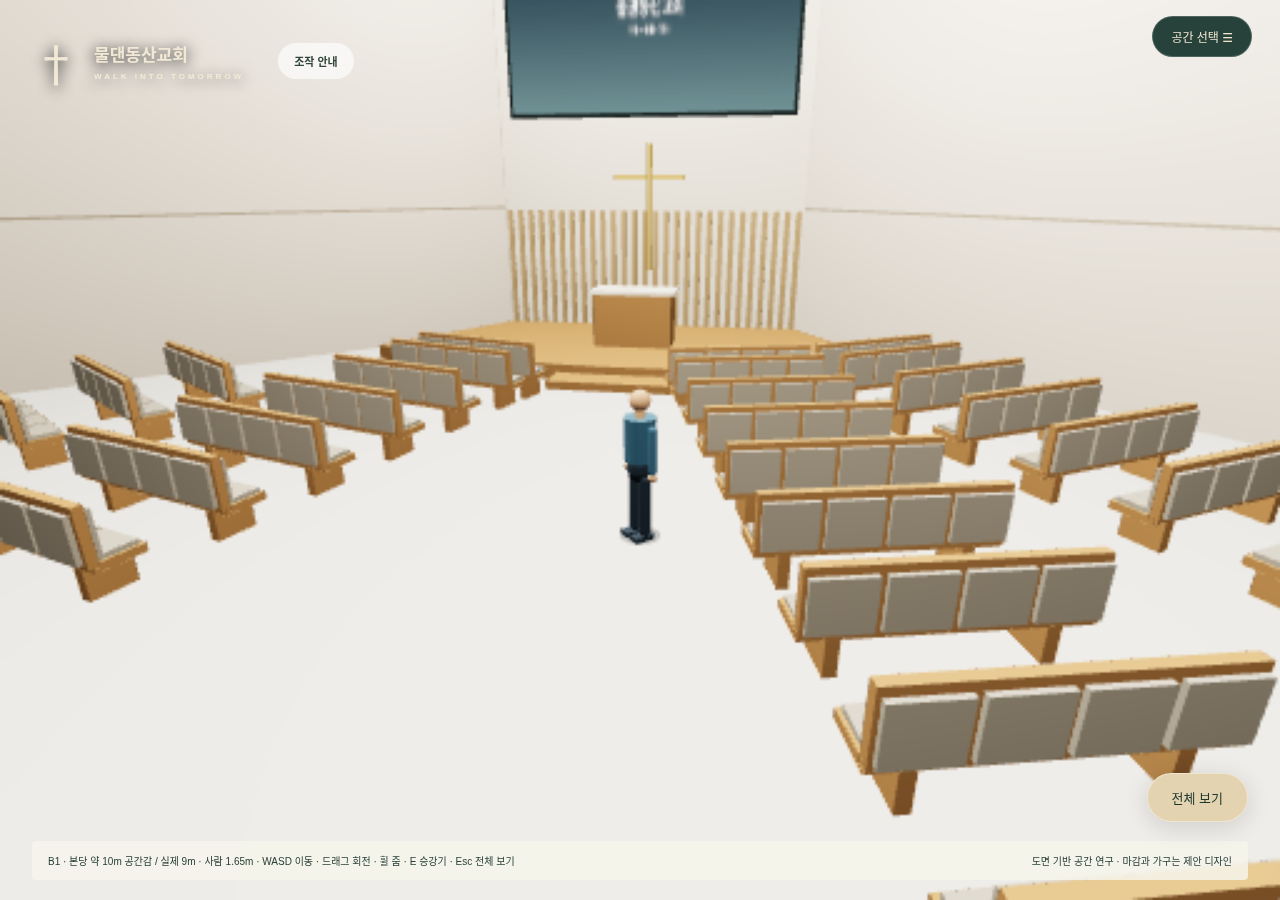
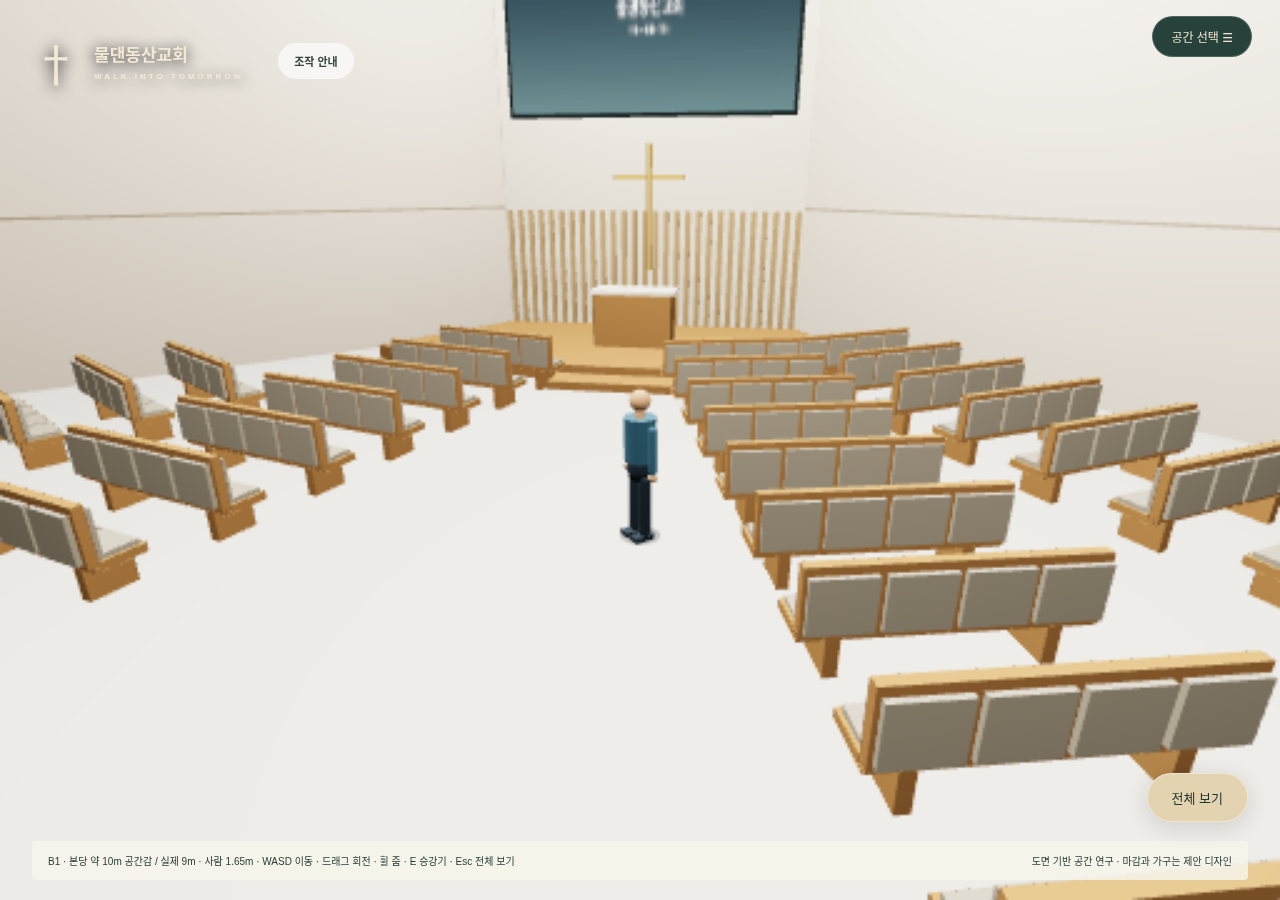
Restore front pew row spacing and open fourth floor room guard passages

Changed region(s): [[0.5, 0.3422, 0.75, 0.4356], [0.3125, 0.3422, 0.4375, 0.4667]]

diff --git a/src/building-world.js b/src/building-world.js
@@ -47,6 +47,14 @@ export class BuildingWorld {
     this.sanctuaryStairsRemoved=removed;this.repairs.push('Removed '+removed+' B1 stair and guard meshes; sanctuary circulation uses elevator');
   }
   fixStructure(){
+    // The roof guard crosses the three real 4F doorways. Keep the guard,
+    // but leave clear openings aligned with the existing door jambs.
+    for(const guardName of ['RAIL_Glass_RoofGuard','RAIL_Top_RoofGuard']){
+    const guard=this.original.get(guardName);
+    if(guard){const b=new T.Box3().setFromObject(guard);guard.removeFromParent();
+      for(const [i,a,c]of [[0,b.min.x,-9.5],[1,-8.5,.75],[2,1.75,9.6],[3,10.6,b.max.x]])this.box(guardName+'_segment_'+i,(a+c)/2,(b.min.y+b.max.y)/2,(b.min.z+b.max.z)/2,c-a,b.max.y-b.min.y,b.max.z-b.min.z,guard.material);
+    }
+    }
     // Restore the approved roof transform: the supplied environment export rotated
     // this horizontal slab into a vertical panel extending down into the sanctuary.
     const roof=this.original.get('ROOF_Setback');
@@ -128,7 +136,8 @@ export class BuildingWorld {
     this.sanctuary.screenWidth=6.2;
     const fabric=new T.MeshStandardMaterial({color:0xaaa394,roughness:.95});
     for(const [n,o]of this.original){if(/^B1_Pew_\d+_(Seat|Back)$/.test(n))o.material=fabric;
-      if(/^B1_Pew_0[012]_/.test(n)){const dx=o.position.x+12.8,dz=o.position.z+10.7,l=Math.hypot(dx,dz);o.position.x+=dx/l*.6;o.position.z+=dz/l*.6}
+      // Preserve the original 1.3m row pitch: shifting only the first row
+      // back by .6m previously squeezed its gap to the second row to .7m.
     }
     const added=new Map();
     const rows=[[25,21,.315,1.26],[26,22,.65,1.126],[27,23,1.126,.65],[28,24,1.26,.315],[29,26,.65,1.126],[30,27,1.126,.65],[31,28,1.26,.315],[32,31,1.26,.315],[33,30,1.126,.65],[34,32,1.26,.315],
